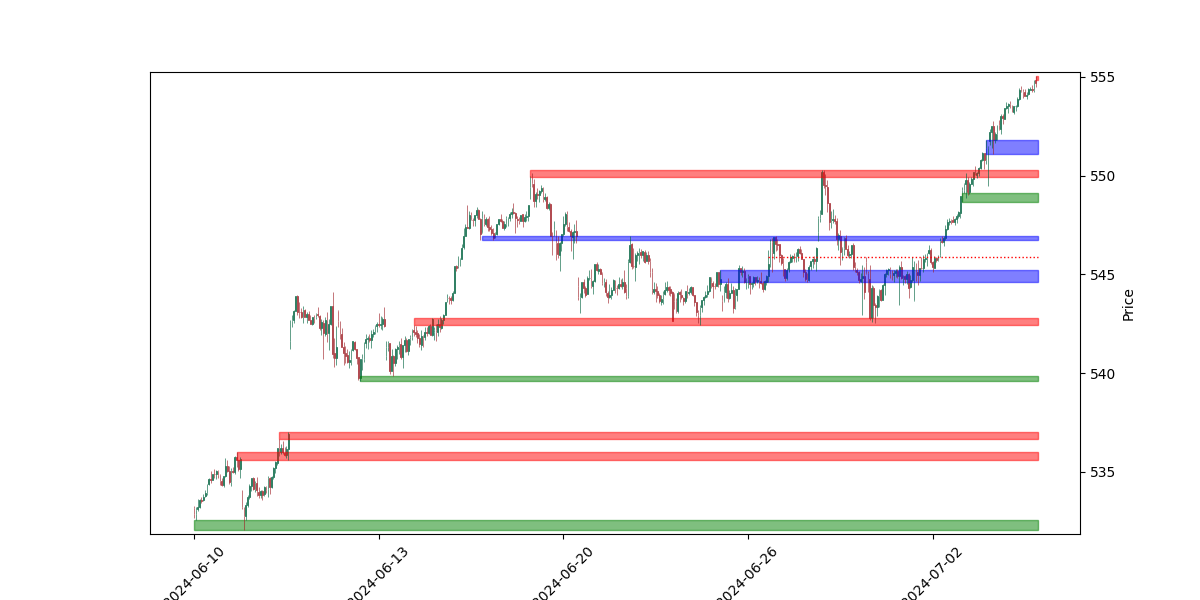
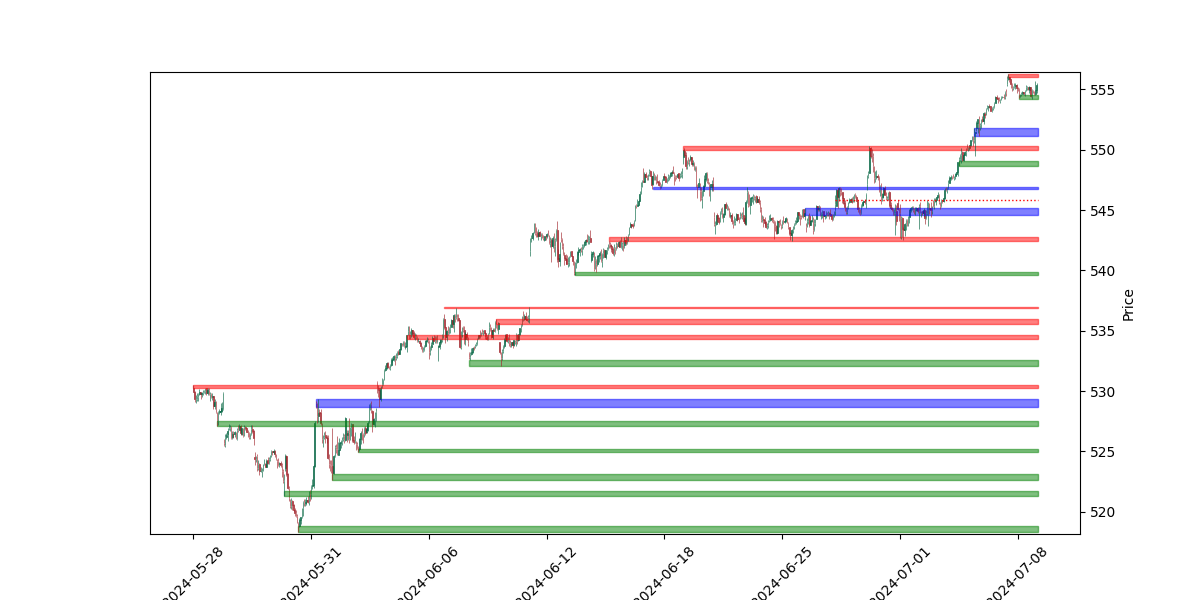
week 11 day 2 report:
I had to change candle_zone_handler() to see if boxes even exist because it would raise a error if they didn't exist. Also had to change zone type because i realise that most of the code i wrote before hand of all this updated code was meant for one PDHL when now with all this new boxes i have multiple PDHL's and there all named differently as they should. just fixing it all to handle the new updates.

diff --git a/tll_trading_strategy.py b/tll_trading_strategy.py
@@ -206,86 +206,87 @@ async def execute_trading_strategy(zones):
             await error_log_and_discord_message(e, "tll_trading_strategy", "execute_trading_strategy")
 
 def candle_zone_handler(candle, type_of_candle, boxes, first_candle = False):
-    for box_name, (x_pos, high_low_of_day, buffer) in boxes.items(): 
-        # Determine zone type
-        zone_type = "support" if "support" in box_name else "resistance" if "resistance" in box_name else "PDHL"
-        PDH_or_PDL = high_low_of_day  # PDH for resistance, PDL for support
-        box_top = PDH_or_PDL if zone_type in ["resistance", "PDHL"] else buffer  # PDH or Buffer as top for resistance/PDHL
-        box_bottom = buffer if zone_type in ["resistance", "PDHL"] else PDH_or_PDL  # Buffer as bottom for resistance/PDHL
-        check_is_in_another_zone = True
-        action = None # Initialize action to None or any default value
-        # Check if the candle shoots through the zone
-        if candle['open'] < box_bottom:
-            if candle['close'] > box_top:
-                # Candle shoots up through the zone
-                action = "[START 1]" # CALLS
-                candle_type = "PDH" if zone_type in ["resistance", "PDHL"] else "Buffer" #buffer is support
-                check_is_in_another_zone = True
-            elif box_bottom < candle['close'] < box_top:
-                # Went up, closed Inside of box
-                action = '[END 2]'
-        elif candle['open'] > box_top:
-            if candle['close'] < box_bottom:
-                # Candle shoots down through the zone
-                action = "[START 3]" # PUTS
-                candle_type = "PDL" if zone_type in ["support", "PDHL"] else "Buffer" #buffer if resistance
-                check_is_in_another_zone = True
-            elif box_top > candle['close'] > box_bottom:
-                #went down, closed Inside of box
-                action = "[END 4]"
-        elif candle['close'] > box_top and candle['open'] <= box_top:
-            # Candle closes above the zone, potentially starting an upward trend
-            action = "[START 5]" # CALLS
-            candle_type = "PDH" if zone_type in ["resistance", "PDHL"] else "Buffer" #buffer is support
-        elif candle['close'] < box_bottom and candle['open'] >= box_bottom:
-            # Candle closes below the zone, potentially starting a downward trend
-            action = "[START 6]" # PUTS
-            candle_type = "PDL" if zone_type in ["support", "PDHL"] else "Buffer" #buffer if resistance
-                        
-        
-        # I only want this to run on the first candle
-        if 'PDHL' in box_name and first_candle: 
-            # Above zone
-            if candle['open'] > box_top and candle['close'] > box_top:
-                # whole candle is above zone
-                candle_type = "PDH"
-                action = "[START 8]"
-            elif candle['open'] < box_top and candle['close'] > box_top:
-                # candle is coming out above zone
-                candle_type = "PDH"
-                action = "[START 9]"
-            
-            # Below zone
-            if candle['open'] < box_bottom and candle['close'] < box_bottom:
-                # whole candle is below zone
-                candle_type = "PDL"
-                action = "[START 10]"
-            if candle['open'] > box_bottom and candle['close'] < box_bottom:
-                # candle is coming out below zone
-                candle_type = "PDL"
-                action = "[START 11]"
+    if boxes:
+        for box_name, (x_pos, high_low_of_day, buffer) in boxes.items(): 
+            # Determine zone type
+            zone_type = "support" if "support" in box_name else "resistance" if "resistance" in box_name else "PDHL"
+            PDH_or_PDL = high_low_of_day  # PDH for resistance, PDL for support
+            box_top = PDH_or_PDL if zone_type in ["resistance", "PDHL"] else buffer  # PDH or Buffer as top for resistance/PDHL
+            box_bottom = buffer if zone_type in ["resistance", "PDHL"] else PDH_or_PDL  # Buffer as bottom for resistance/PDHL
             check_is_in_another_zone = True
+            action = None # Initialize action to None or any default value
+            # Check if the candle shoots through the zone
+            if candle['open'] < box_bottom:
+                if candle['close'] > box_top:
+                    # Candle shoots up through the zone
+                    action = "[START 1]" # CALLS
+                    candle_type = "PDH" if zone_type in ["resistance", "PDHL"] else "Buffer" #buffer is support
+                    check_is_in_another_zone = True
+                elif box_bottom < candle['close'] < box_top:
+                    # Went up, closed Inside of box
+                    action = '[END 2]'
+            elif candle['open'] > box_top:
+                if candle['close'] < box_bottom:
+                    # Candle shoots down through the zone
+                    action = "[START 3]" # PUTS
+                    candle_type = "PDL" if zone_type in ["support", "PDHL"] else "Buffer" #buffer if resistance
+                    check_is_in_another_zone = True
+                elif box_top > candle['close'] > box_bottom:
+                    #went down, closed Inside of box
+                    action = "[END 4]"
+            elif candle['close'] > box_top and candle['open'] <= box_top:
+                # Candle closes above the zone, potentially starting an upward trend
+                action = "[START 5]" # CALLS
+                candle_type = "PDH" if zone_type in ["resistance", "PDHL"] else "Buffer" #buffer is support
+            elif candle['close'] < box_bottom and candle['open'] >= box_bottom:
+                # Candle closes below the zone, potentially starting a downward trend
+                action = "[START 6]" # PUTS
+                candle_type = "PDL" if zone_type in ["support", "PDHL"] else "Buffer" #buffer if resistance
+                            
+            
+            # I only want this to run on the first candle
+            if 'PDHL' in box_name and first_candle: 
+                # Above zone
+                if candle['open'] > box_top and candle['close'] > box_top:
+                    # whole candle is above zone
+                    candle_type = "PDH"
+                    action = "[START 8]"
+                elif candle['open'] < box_top and candle['close'] > box_top:
+                    # candle is coming out above zone
+                    candle_type = "PDH"
+                    action = "[START 9]"
+                
+                # Below zone
+                if candle['open'] < box_bottom and candle['close'] < box_bottom:
+                    # whole candle is below zone
+                    candle_type = "PDL"
+                    action = "[START 10]"
+                if candle['open'] > box_bottom and candle['close'] < box_bottom:
+                    # candle is coming out below zone
+                    candle_type = "PDL"
+                    action = "[START 11]"
+                check_is_in_another_zone = True
 
-        if check_is_in_another_zone:
-            # Additional checks to refine action based on closing inside any other zone
-            for other_box_name, (_, other_high_low_of_day, other_buffer) in boxes.items():
-                if other_box_name != box_name:  # Ensure we're not checking the same zone
-                    other_box_top = other_high_low_of_day if "resistance" in other_box_name or "PDHL" in other_box_name else other_buffer
-                    other_box_bottom = other_buffer if "resistance" in other_box_name or "PDHL" in other_box_name else other_high_low_of_day
-                                    
-                    # Check if the candle closed inside this other zone
-                    if other_box_bottom <= candle['close'] <= other_box_top:
-                        # Modify action to [END #] since we closed inside of another zone
-                        action = "[END 7]"
-                        #print(f"    [MODIFIED ACTION] Candle closed inside another zone ({other_box_name}), changing action to {action}.")
-                        break  # Exit the loop since we've found a zone that modifies the action
-        
-        if action:
-            what_type_of_candle = f"{box_name} {candle_type}" if "START" in action else None
-            #havent_cleared = True if what_type_of_candle is not None else False
-            print(f"    [INFO] {action} what_type_of_candle = {what_type_of_candle}")
-            return what_type_of_candle 
-        
+            if check_is_in_another_zone:
+                # Additional checks to refine action based on closing inside any other zone
+                for other_box_name, (_, other_high_low_of_day, other_buffer) in boxes.items():
+                    if other_box_name != box_name:  # Ensure we're not checking the same zone
+                        other_box_top = other_high_low_of_day if "resistance" in other_box_name or "PDHL" in other_box_name else other_buffer
+                        other_box_bottom = other_buffer if "resistance" in other_box_name or "PDHL" in other_box_name else other_high_low_of_day
+                                        
+                        # Check if the candle closed inside this other zone
+                        if other_box_bottom <= candle['close'] <= other_box_top:
+                            # Modify action to [END #] since we closed inside of another zone
+                            action = "[END 7]"
+                            #print(f"    [MODIFIED ACTION] Candle closed inside another zone ({other_box_name}), changing action to {action}.")
+                            break  # Exit the loop since we've found a zone that modifies the action
+            
+            if action:
+                what_type_of_candle = f"{box_name} {candle_type}" if "START" in action else None
+                #havent_cleared = True if what_type_of_candle is not None else False
+                print(f"    [INFO] {action} what_type_of_candle = {what_type_of_candle}")
+                return what_type_of_candle 
+            
     if type_of_candle is not None:
         return type_of_candle
 
@@ -320,7 +321,7 @@ async def identify_flag(candle, num_flags, session, headers, what_type_of_candle
     breakout_detected = None
     candle_direction = None
     # Check if the 'type' key exists in the candle dictionary
-    if 'type' in candle and ('support' in candle['type'] and 'Buffer' in candle['type']) or ('resistance' in candle['type'] and 'PDH' in candle['type']) or ('PDHL PDH' in candle['type']):
+    if 'type' in candle and ('support' in candle['type'] and 'Buffer' in candle['type']) or ('resistance' in candle['type'] and 'PDH' in candle['type']) or ('PDHL' in candle['type'] and 'PDH' in candle['type']):
         # Bull Candles, We look at Higher Highs
         candle_direction = "bullish"
         line_name = f"flag_{num_flags}"
@@ -380,7 +381,7 @@ async def identify_flag(candle, num_flags, session, headers, what_type_of_candle
                 line_name, lower_highs, highest_point, slope, intercept, candle, config, session, headers, what_type_of_candle, able_to_buy, breakout_type='bullish'
             )
     
-    elif ('support' in candle['type'] and 'PDL' in candle['type']) or ('resistance' in candle['type'] and 'Buffer' in candle['type']) or ('PDHL PDL' in candle['type']):
+    elif ('support' in candle['type'] and 'PDL' in candle['type']) or ('resistance' in candle['type'] and 'Buffer' in candle['type']) or ('PDHL' in candle['type'] and 'PDL' in candle['type']):
         # Bear Candles, we look at lower lows
         candle_direction = "bearish"
         line_name = f"flag_{num_flags}"

diff --git a/order_handler.py b/order_handler.py
@@ -475,19 +475,19 @@ async def manage_active_fake_order(active_order_details, _message_ids_dict):
                         
                         # Get the current candle index
                         current_candle_index = get_current_candle_index()
+                        broke_13_ema = is_ema_broke(ema_value, SYMBOL, TIMEFRAMES[0], option_type)
                         
                         # Check if the current candle is different from the last checked candle
                         if current_candle_index != last_check_candle_index:
                             last_check_candle_index = current_candle_index
-                            
-                            # Check if the specified EMA value is broken
-                            if is_ema_broke(ema_value, SYMBOL, TIMEFRAMES[0], option_type):
-                                # If no partial exit has occurred, use the current loss percentage logic
-                                if current_bid_price is not None and buy_entry_price is not None:
-                                    current_loss_percentage = ((current_bid_price - buy_entry_price) / buy_entry_price) * 100
-                                    if current_loss_percentage <= loss_percentage:
-                                        await sell_rest_of_active_order("13ema Trailing stop Hit and is more than desired percentage")
-                                        break
+                            print(f"    [MAFO] Current Candle Index: {last_check_candle_index}")
+                            if current_bid_price is not None and buy_entry_price is not None:
+                                current_loss_percentage = ((current_bid_price - buy_entry_price) / buy_entry_price) * 100
+                                print(f"    [MAFO] Current Bid and Loss: {current_bid_price}, {current_loss_percentage}% | {loss_percentage}% ; {broke_13_ema}")
+                                if current_loss_percentage <= loss_percentage and broke_13_ema:
+                                    # If no partial exit has occurred, see if were below loss percentage then sell, sell order else stay in order.
+                                    await sell_rest_of_active_order("13ema Trailing stop Hit and is more than desired percentage")
+                                    break
  
                 #this handles the sell targets
                 for i, sell_point in enumerate(sell_points):

diff --git a/data_acquisition.py b/data_acquisition.py
@@ -7,6 +7,8 @@ from chart_visualization import update_2_min
 from error_handler import error_log_and_discord_message
 import websockets
 from websockets.exceptions import InvalidStatusCode
+from requests.exceptions import ConnectionError, Timeout
+from urllib3.exceptions import NewConnectionError, MaxRetryError
 import asyncio
 import cred
 import aiohttp
@@ -90,6 +92,10 @@ async def ws_connect(queue, symbol):
             print("WebSocket connection closed. Re-establishing connection...")
             await asyncio.sleep(RETRY_INTERVAL)  # Wait before retrying
 
+        except (ConnectionError, NewConnectionError, MaxRetryError, Timeout) as e:
+            print(f"[INTERNET CONNECTION] Failed to connect at {datetime.now().isoformat()}, retrying...")
+            await asyncio.sleep(RETRY_INTERVAL)  # Wait before retrying
+        
         except Exception as e:
             await error_log_and_discord_message(e, "data_acquisition", "ws_connect", "An error occurred. Re-establishing connection...")
             await asyncio.sleep(RETRY_INTERVAL)  # Wait before retrying
@@ -781,6 +787,7 @@ def is_ema_broke(ema_type, symbol, timeframe, cp):
         close_price = None  
 
     # Check conditions based on option type
+    print(f"    [IEB {ema_type} EMA] open: {open_price}; close: {close_price}; latest_ema: {latest_ema}; ")
     if open_price and close_price:
         if cp == 'call' and latest_ema > close_price: #close_price > latest_ema and open_price < latest_ema:
             print(f"        [EMA BROKE] {ema_type}ema Hit, Sell rest of call. [CLOSE]: {close_price}; [Last EMA]: {latest_ema}; [OPEN]: {open_price}")
@@ -789,6 +796,9 @@ def is_ema_broke(ema_type, symbol, timeframe, cp):
             print(f"        [EMA BROKE] {ema_type}ema Hit, Sell rest of put. [OPEN]: {open_price}; [EMA {ema_type}]: {latest_ema}; [CLOSE] {close_price}")
             return True
     return False
+
+#def respecting_ema_num():
+    # Go one by one, get the most recent candle then the same ema in that position.
 
 def read_last_n_lines(file_path, n): #code from a previous ema tradegy, thought it may help. pls edit if need be.
     # Ensure the logs directory exists
